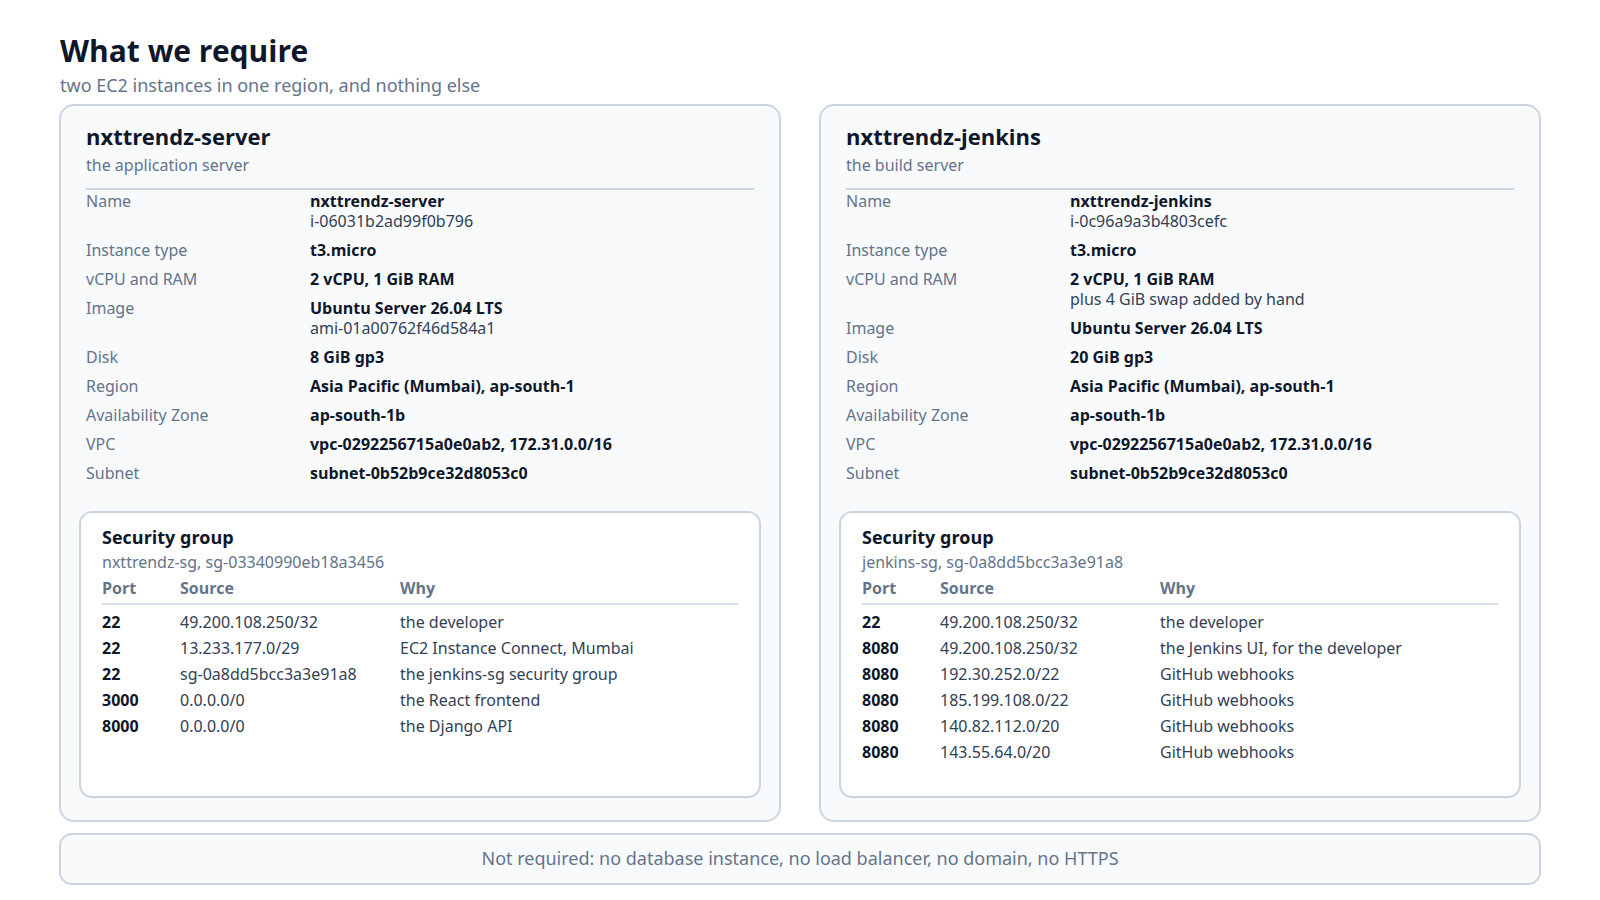
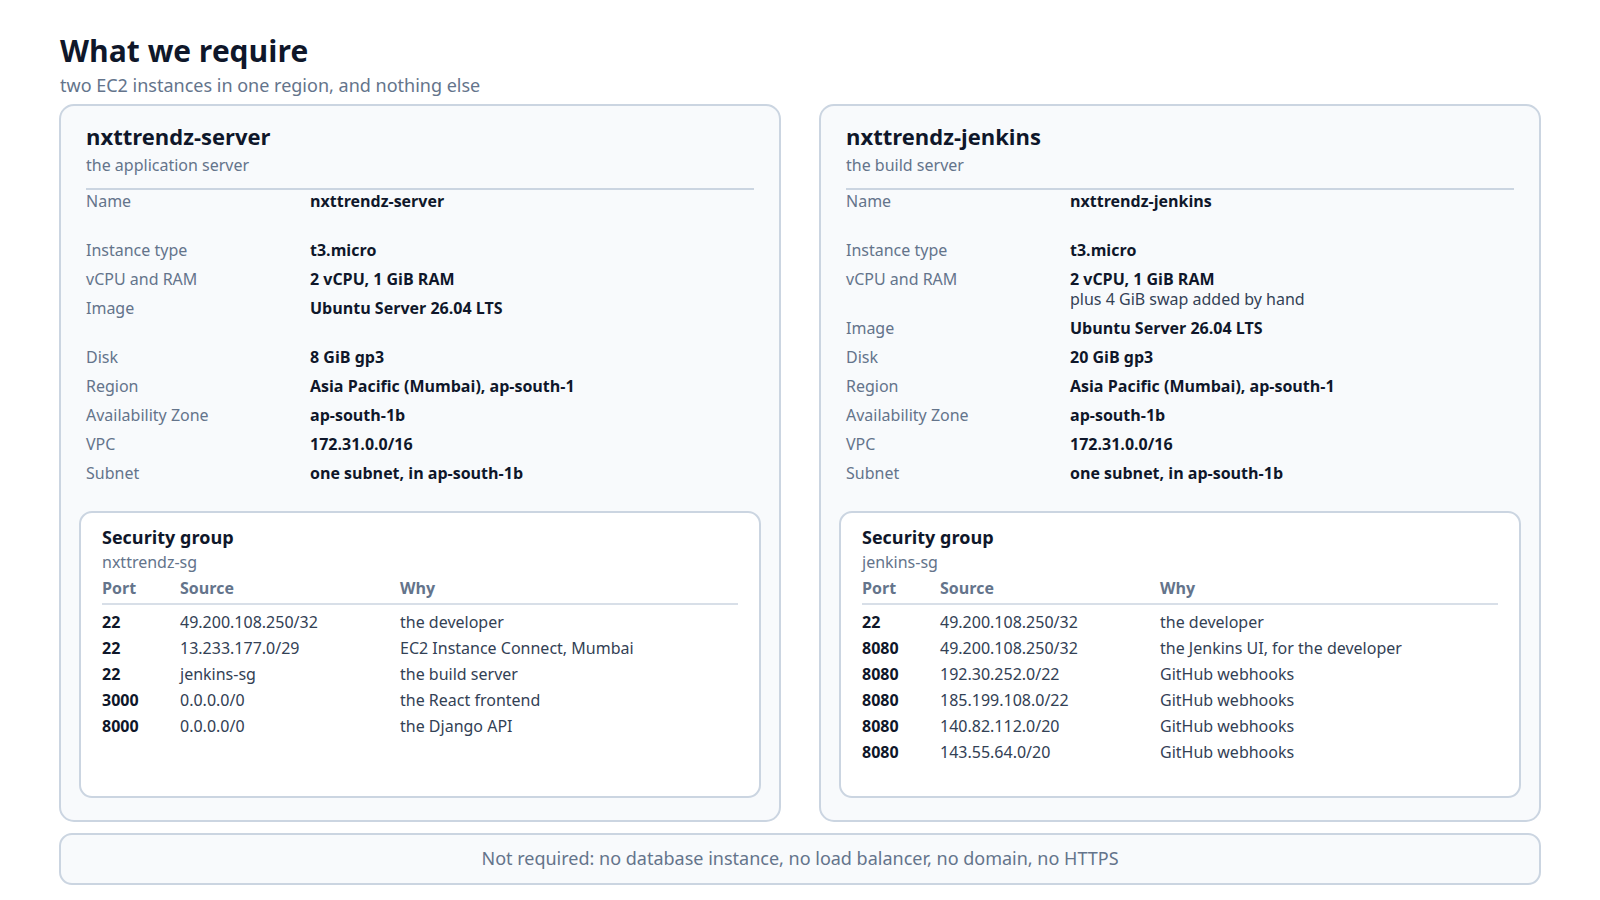
diagrams(session-10): names only, no resource IDs
User, 2026-09-16: 'just name are enough, what are you adding ids'. An
instance ID, an AMI ID, a security group ID, a VPC ID and a subnet ID are
unique to one account and mean nothing in a classroom, so they are gone
from all eight diagrams, the reading material, the plan and the constants.

What stays is what teaches: nxttrendz-server, Ubuntu Server 26.04 LTS,
t3.micro, 8 and 20 GiB gp3, 172.31.0.0/16, and the security groups by name.
The rule about the app server's port 22 now reads jenkins-sg as its source,
which is clearer than the ID it used to print and is the actual point.

The IDs stay in the captures MANIFEST for anyone reproducing the run, and
deckShared.tsx no longer defines them, so none can reach a slide by accident.

diff --git a/django_deployement_course/deployement_session_10/src/decks/deckShared.tsx b/django_deployement_course/deployement_session_10/src/decks/deckShared.tsx
@@ -10,6 +10,14 @@
  * that proves each one is named in
  * `django_deployement_course/workflow/captures/session-10/MANIFEST.md`.
  * If you are tempted to change one, change the capture first.
+ *
+ * NO RESOURCE IDS LIVE HERE, DELIBERATELY. User instruction, 2026-09-16:
+ * "just name are enough, what are you adding ids". An instance ID, an AMI ID,
+ * a security group ID, a VPC ID and a subnet ID are unique to one account and
+ * mean nothing to a learner, so a slide names `nxttrendz-server` and
+ * `nxttrendz-sg` instead. The IDs are kept in the captures MANIFEST for
+ * anyone reproducing the run, and there is nothing to import here that would
+ * let one back onto a slide by accident.
  */
 
 export const SESSION = 'Deploying Your App on AWS'
@@ -31,30 +39,25 @@ export const CLOSING_KICKER = 'Before You Leave'
 export const REGION_NAME = 'Asia Pacific (Mumbai)'
 export const REGION_CODE = 'ap-south-1'
 export const ZONE = 'ap-south-1b'
-export const VPC_ID = 'vpc-0292256715a0e0ab2'
 export const VPC_CIDR = '172.31.0.0/16'
-export const SUBNET_ID = 'subnet-0b52b9ce32d8053c0'
+export const SUBNET_DESC = 'one subnet, in ap-south-1b'
 
 /* ---- the application server -------------------------------------------- */
 
 export const APP_NAME = 'nxttrendz-server'
-export const APP_INSTANCE_ID = 'i-06031b2ad99f0b796'
 export const APP_PRIVATE_IP = '172.31.7.32'
 export const APP_HOSTNAME = 'ip-172-31-7-32'
 export const APP_DISK = '8 GiB'
 export const APP_SG_NAME = 'nxttrendz-sg'
-export const APP_SG_ID = 'sg-03340990eb18a3456'
 
 /* ---- the build server --------------------------------------------------- */
 
 export const JENKINS_NAME = 'nxttrendz-jenkins'
-export const JENKINS_INSTANCE_ID = 'i-0c96a9a3b4803cefc'
 export const JENKINS_IP = '3.108.220.155'
 export const JENKINS_PRIVATE_IP = '172.31.15.67'
 export const JENKINS_DISK = '20 GiB'
 export const JENKINS_SWAP = '4 GiB'
 export const JENKINS_SG_NAME = 'jenkins-sg'
-export const JENKINS_SG_ID = 'sg-0a8dd5bcc3a3e91a8'
 export const JOB_NAME = 'nxttrendz-pipeline'
 export const JOB_NAME_OLD = 'nxttrendz-build-test'
 
@@ -65,7 +68,6 @@ export const INSTANCE_VCPU = '2 vCPU'
 export const INSTANCE_RAM = '1 GiB'
 export const DISK_TYPE = 'gp3'
 export const AMI_NAME = 'Ubuntu Server 26.04 LTS'
-export const AMI_ID = 'ami-01a00762f46d584a1'
 export const SSH_USER = 'ubuntu'
 export const KEY_NAME = 'nxttrendz-key'
 export const KEY_FILE = `${KEY_NAME}.pem`
@@ -80,7 +82,6 @@ export const SWAP_IN_USE = '486 MiB'
 /* ---- addresses ---------------------------------------------------------- */
 
 export const ELASTIC_IP = '13.202.184.214'
-export const ALLOCATION_ID = 'eipalloc-0947cde9d5ed8fa6a'
 
 /** Every public address this one instance has had, oldest first. Three came
  *  from session 9, the fourth from this session's start. The argument for an

diff --git a/django_deployement_course/session_plans/deployement_session_10/reading-material.md b/django_deployement_course/session_plans/deployement_session_10/reading-material.md
@@ -54,18 +54,17 @@ application privately, which section 9 uses.
 | Setting | Value | Why this value |
 |---|---|---|
 | Name | `nxttrendz-server` | names the thing it is |
-| Instance ID | `i-06031b2ad99f0b796` | assigned by AWS at launch |
 | Instance type | **t3.micro** | 2 vCPU, 1 GiB RAM. Free tier eligible, and enough to run two small containers |
-| Image | **Ubuntu Server 26.04 LTS**, `ami-01a00762f46d584a1` | the same Linux the course has used throughout |
+| Image | **Ubuntu Server 26.04 LTS** | the same Linux the course has used throughout |
 | Disk | **8 GiB gp3** | holds Ubuntu, Docker and two images with room to spare |
 | Region | **Asia Pacific (Mumbai)**, `ap-south-1` | nearest to the room |
 | Availability Zone | `ap-south-1b` | one building inside that Region |
-| VPC | `vpc-0292256715a0e0ab2`, `172.31.0.0/16` | the account's default private network |
-| Subnet | `subnet-0b52b9ce32d8053c0` | the slice of that network this instance sits in |
+| VPC | `172.31.0.0/16` | the account's default private network |
+| Subnet | one subnet, in `ap-south-1b` | the slice of that network this instance sits in |
 | Private address | `172.31.7.32` | never changes, never leaves AWS |
 | Public address | Elastic IP `13.202.184.214` | section 7 explains why it must be Elastic |
 | Key pair | `nxttrendz-key`, RSA, `.pem` | the only way in |
-| Security group | `nxttrendz-sg`, `sg-03340990eb18a3456` | the door list |
+| Security group | `nxttrendz-sg` | the door list |
 
 **Its doors.** Five rules, and each one has to be justifiable out loud.
 
@@ -73,7 +72,7 @@ application privately, which section 9 uses.
 |---|---|---|
 | 22 | `49.200.108.250/32` | you, and only you, administer the server |
 | 22 | `13.233.177.0/29` | AWS's own browser Connect service in Mumbai |
-| 22 | `sg-0a8dd5bcc3a3e91a8` | the build server, named by **security group** and not by address |
+| 22 | `jenkins-sg` | the build server, named by **security group** and not by address |
 | 3000 | `0.0.0.0/0` | the React frontend. Users are the point |
 | 8000 | `0.0.0.0/0` | the Django API, which the browser calls directly |
 | ~~5432~~ | **no rule** | there is no database server. See 1.4 |
@@ -83,13 +82,12 @@ application privately, which section 9 uses.
 | Setting | Value | Why this value |
 |---|---|---|
 | Name | `nxttrendz-jenkins` | |
-| Instance ID | `i-0c96a9a3b4803cefc` | |
 | Instance type | **t3.micro** | free tier again, **plus 4 GiB of swap added by hand**. See the warning below |
 | Image | **Ubuntu Server 26.04 LTS** | same as the app server |
 | Disk | **20 GiB gp3** | not 8. Docker builds accumulate layers and images fast |
 | Private address | `172.31.15.67` | same VPC as the app server, which is the whole point |
 | Public address | `3.108.220.155` | GitHub must be able to reach it |
-| Security group | `jenkins-sg`, `sg-0a8dd5bcc3a3e91a8` | |
+| Security group | `jenkins-sg` | |
 
 **Its doors.**
 

diff --git a/django_deployement_course/session_plans/deployement_session_10/plan.md b/django_deployement_course/session_plans/deployement_session_10/plan.md
@@ -321,19 +321,23 @@ beat marked **[A]** needs an architecture state, and **[C]** names its capture.
 
 ## 9. The verified constants for `deckShared.tsx`
 
+> **Names only. No resource IDs on a slide or a figure.** User instruction,
+> 2026-09-16: *"just name are enough, what are you adding ids"*. An instance ID,
+> an AMI ID, a security group ID, a VPC ID and a subnet ID are all noise to a
+> learner: they are unique to one account and mean nothing in a classroom. The
+> deck prints `nxttrendz-server`, `Ubuntu Server 26.04 LTS`, `nxttrendz-sg` and
+> `172.31.0.0/16`. The IDs stay in `MANIFEST.md` for anyone reproducing the run.
+
 | Constant | Value |
 |---|---|
 | `REGION` / `ZONE` | `ap-south-1`, Asia Pacific (Mumbai) / `ap-south-1b` |
-| `VPC_ID` / `VPC_CIDR` | `vpc-0292256715a0e0ab2` / `172.31.0.0/16` |
-| `SUBNET_ID` | `subnet-0b52b9ce32d8053c0` |
-| `APP_INSTANCE_ID` | `i-06031b2ad99f0b796` |
+| `VPC_CIDR` | `172.31.0.0/16` |
 | `APP_PRIVATE_IP` | `172.31.7.32` |
-| `ELASTIC_IP` / `ALLOCATION_ID` | `13.202.184.214` / `eipalloc-0947cde9d5ed8fa6a` |
+| `ELASTIC_IP` | `13.202.184.214` |
 | `ADDRESSES_IN_ORDER` | `15.207.88.14`, `13.203.216.68`, `65.2.153.167`, `13.127.157.193` |
-| `APP_SG` | `nxttrendz-sg`, `sg-03340990eb18a3456` |
-| `JENKINS_INSTANCE_ID` | `i-0c96a9a3b4803cefc` |
+| `APP_SG` | `nxttrendz-sg` |
 | `JENKINS_IP` / `JENKINS_PRIVATE_IP` | `3.108.220.155` / `172.31.15.67` |
-| `JENKINS_SG` | `jenkins-sg`, `sg-0a8dd5bcc3a3e91a8` |
+| `JENKINS_SG` | `jenkins-sg` |
 | `JOB_NAME` | `nxttrendz-pipeline` |
 | `GITHUB_HOOK_RANGES` | `192.30.252.0/22`, `185.199.108.0/22`, `140.82.112.0/20`, `143.55.64.0/20` |
 | `MY_IP_CIDR` | `49.200.108.250/32` |
